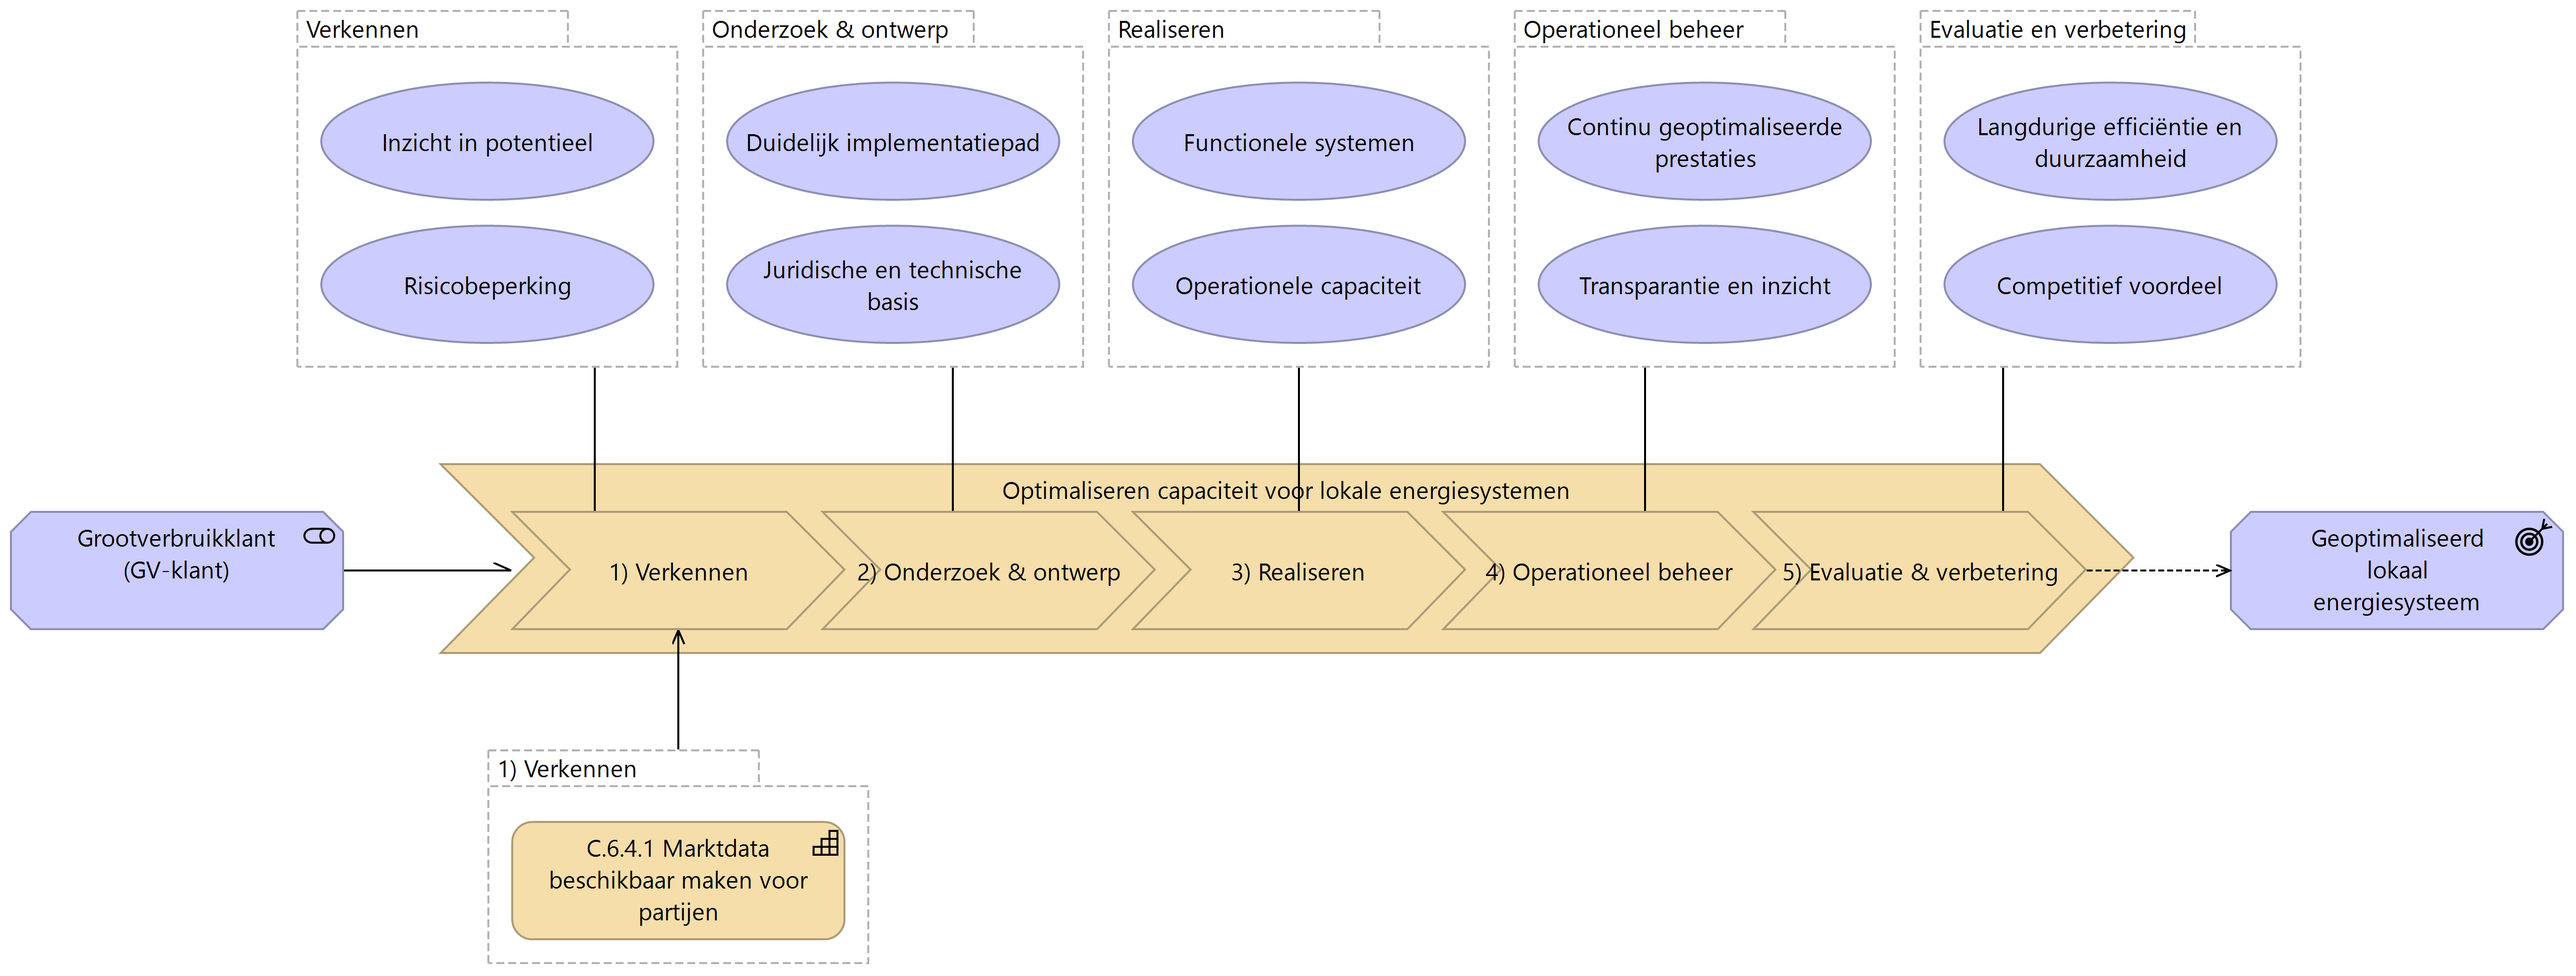
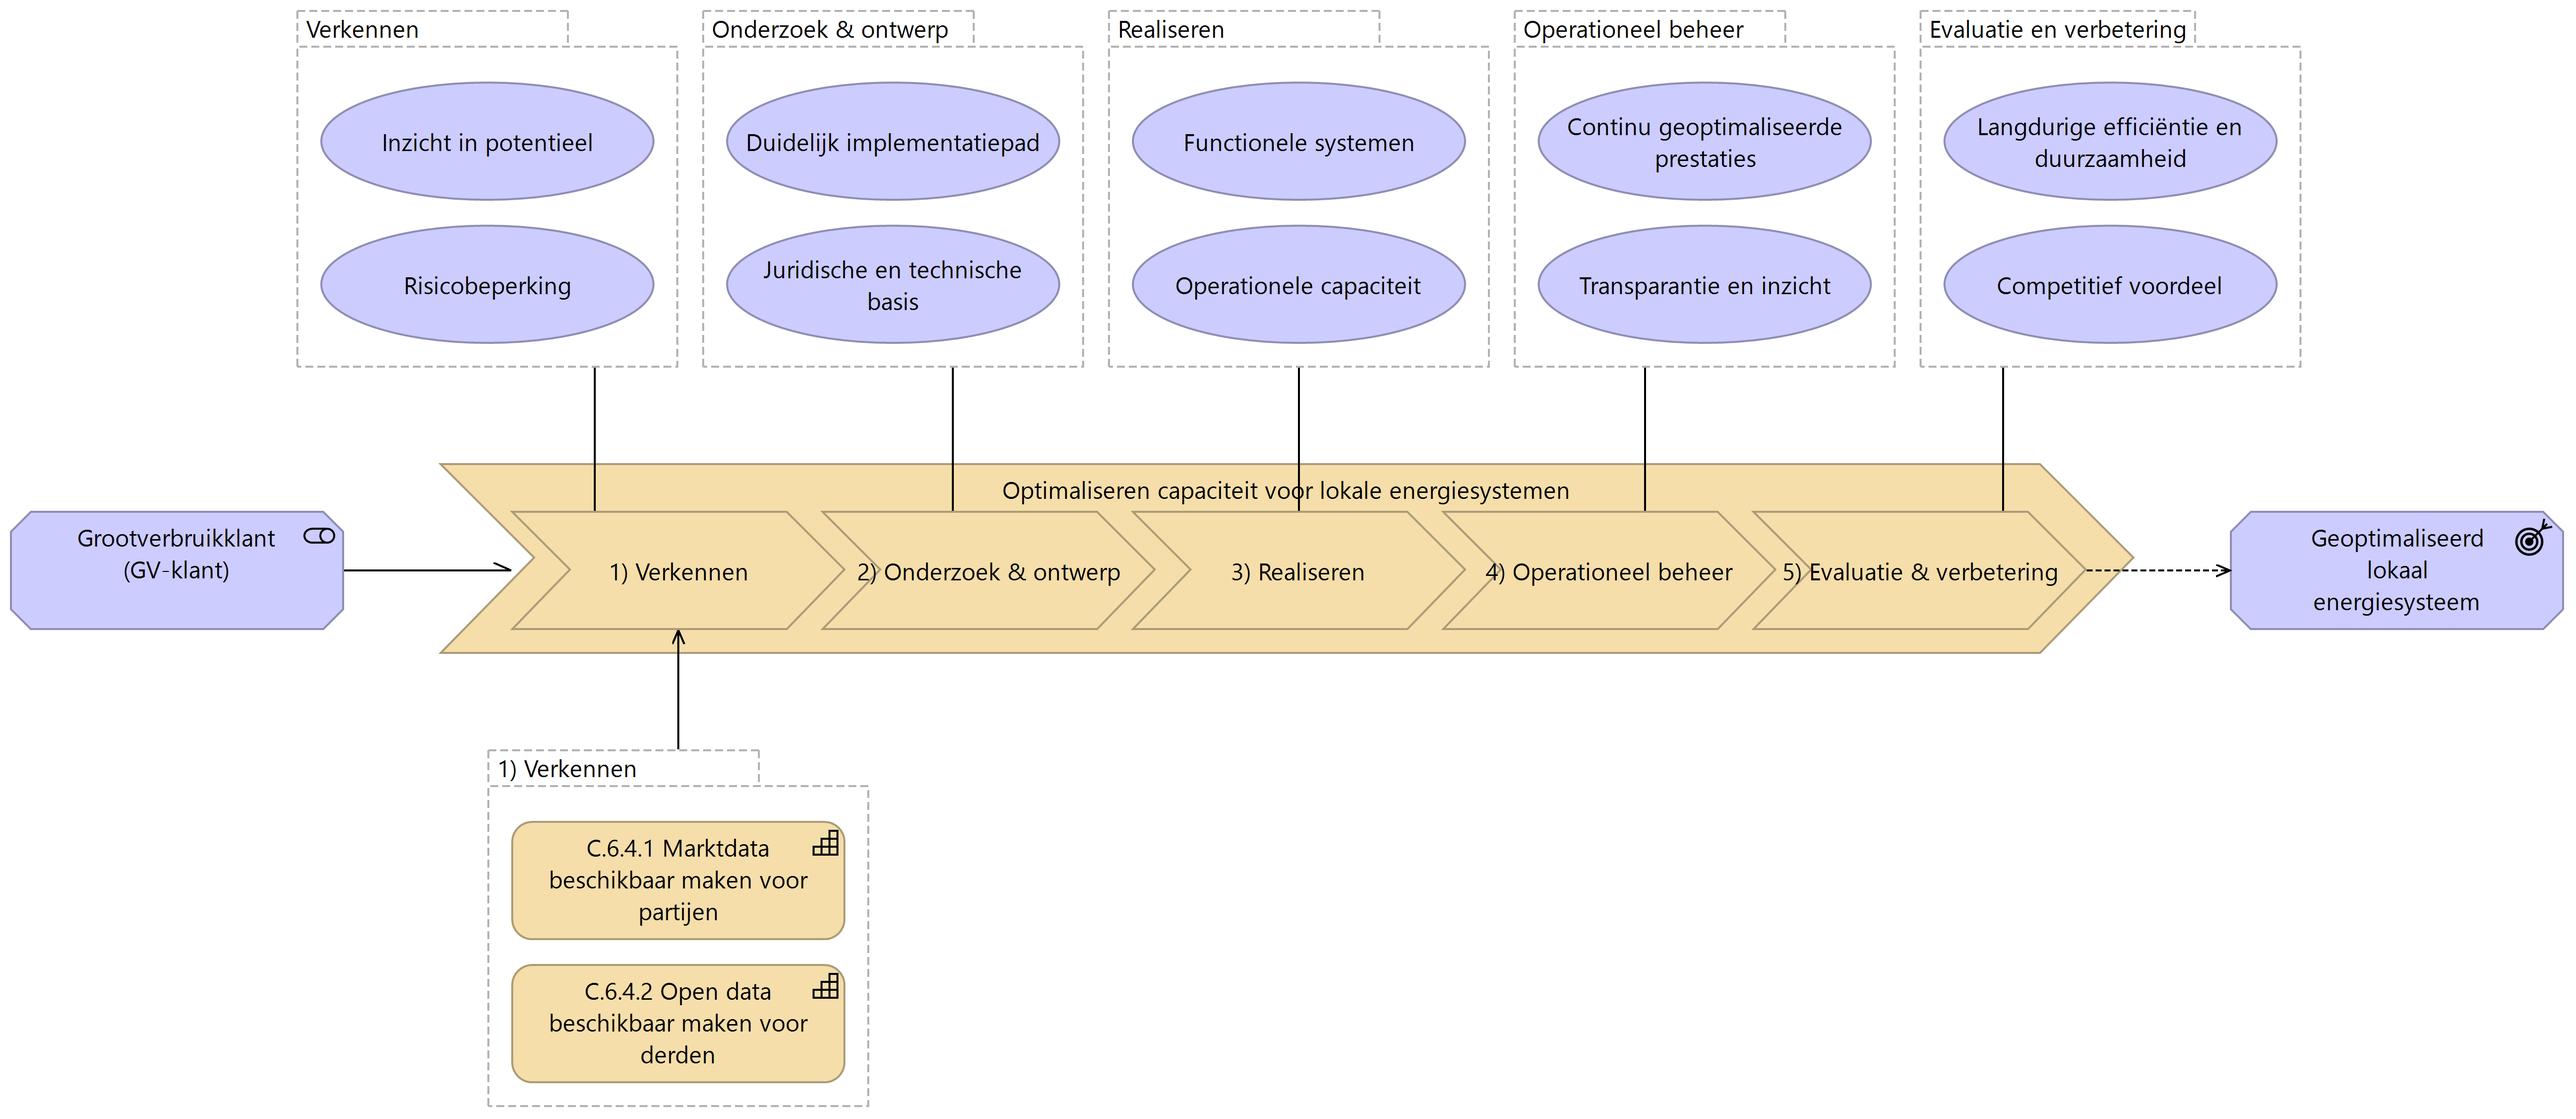
Update README.

Changed region(s): [[0.0, 0.4038, 1.0, 0.9939], [0.1243, 0.0, 0.9014, 0.3727]]

diff --git a/README.md b/README.md
@@ -16,7 +16,7 @@ Dit ontwerp is akkoord bevonden door de volgende stakeholders:
 - [ ] TODO: beperken tot capabilities van de netbeheerder om dataproducten aan
   te kunnen leveren
 - [ ] TODO: input zijn functionele eisen, customer journey van WG EnergyHubs,
-  Blauwdruk EIGEN, ChatGPT
+  Blauwdruk EIGEN, ChatGPT, Doelarchitectuur Datadelen (NBEA)
 - [ ] TODO: Perspectief beperkt zich tot dat van regionale netbeheerder, met
   focus op het leveren van dataproducten
 - [ ] TODO: Stakeholders (GV-klant, gemeente, ontwikkelbedrijf,
@@ -50,8 +50,8 @@ lokale energiesystemen tot stand komen.
 > Een waardestroom is een reeks stappen die een organisatie doorloopt om waarde
 > te creëren en te leveren aan haar klanten, van begin tot eind. Het omvat alle
 > activiteiten, van het identificeren van de behoefte tot het uiteindelijke
-> leveren van het product of de dienst, waarbij elke stap bijdraagt aan het
-> verhogen van de waarde voor de eindgebruiker.
+> leveren van het product of de dienst. Elke stap draagt bij aan het verhogen
+> van de waarde voor de eindgebruiker.
 
 Daarnaast wordt belicht hoe de geïmplementeerde oplossingen bijdragen aan het
 optimaal benutten van beschikbare energiebronnen en aan het versterken van de
@@ -107,9 +107,9 @@ kunnen leveren.
 |C.6.4.1 Marktdata beschikbaar maken voor partijen|Beschikbaar maken van **gesloten data** als dataproduct|
 |C.6.4.2 Open data beschikbaar maken voor derden  |Beschikbaar maken van **open data** als dataproduct    |
 
-Voor de verschillende stappen van de waardestroom worden *Business Services*
-uit capabilities gebruikt om een koppeling te maken tussen de bedrijfsprocessen
-van de verschillende processen en de dienst die wordt geleverd.
+*Business Services* vanuit capabilitie duiden welke ondersteuning vanuit de
+netbeheerders vereist is voor uitvoer van de waardestroomstappen om tot een
+geoptimaliseerd lokaal energiesysteem te komen.
 
 ## Verkennen
 
@@ -118,6 +118,24 @@ gehouden en of er voldoende momentum kan worden gecreëerd bij bedrijven om een
 (voorloper voor) een *Energy Hub* op te zetten.
 
 ![Verkennen](assets/verkennen-20240904.png)
+
+Het diagram illustreert hoe de aangegeven behoefte tot het optimaliseren van
+capaciteit van de GV-klant het proces "Analyseren behoefte" start, wat leidt
+tot de status "behoefte geanalyseerd". Binnen dit proces wordt de basis gelegd
+voor verdere stappen in de waardestroom. Het betrokken Ontwikkelbedrijf is
+verantwoordelijk voor het uitvoeren van de analyse, namens de GV-klant.
+
+Ter ondersteuning van de analyse worden de volgende dataproducten gevraagd:
+
+* **Nettopologie**: beschrijving van de topologie van een (mogelijke) *Energy
+  Hub*. Het gaat hier zowel om informatie van *aansluitingen* die in aanmerking
+  komen voor deelname aan de *Energy Hub*, als geografische informatie;
+* TODO: meer dataproducten? Herleiden naar functionele eisen (kan in later
+  hoofdstuk).
+
+Deze dataproducten worden gerealiseerd via capability [C.6.4.2 Open data
+beschikbaar maken voor
+derden)[#c.6.4.2-open-data-beschikbaar-maken-voor-derden].
 
 ## Onderzoek en ontwerp
 
@@ -135,6 +153,16 @@ gehouden en of er voldoende momentum kan worden gecreëerd bij bedrijven om een
 > TODO
 
 ## Evaluatie en verbeteren
+
+> [!NOTE]
+> TODO
+
+## C.6.4.1 Marktdata beschikbaar maken voor partijen
+
+> [!NOTE]
+> TODO
+
+## C.6.4.2 Open data beschikbaar maken voor derden
 
 > [!NOTE]
 > TODO
